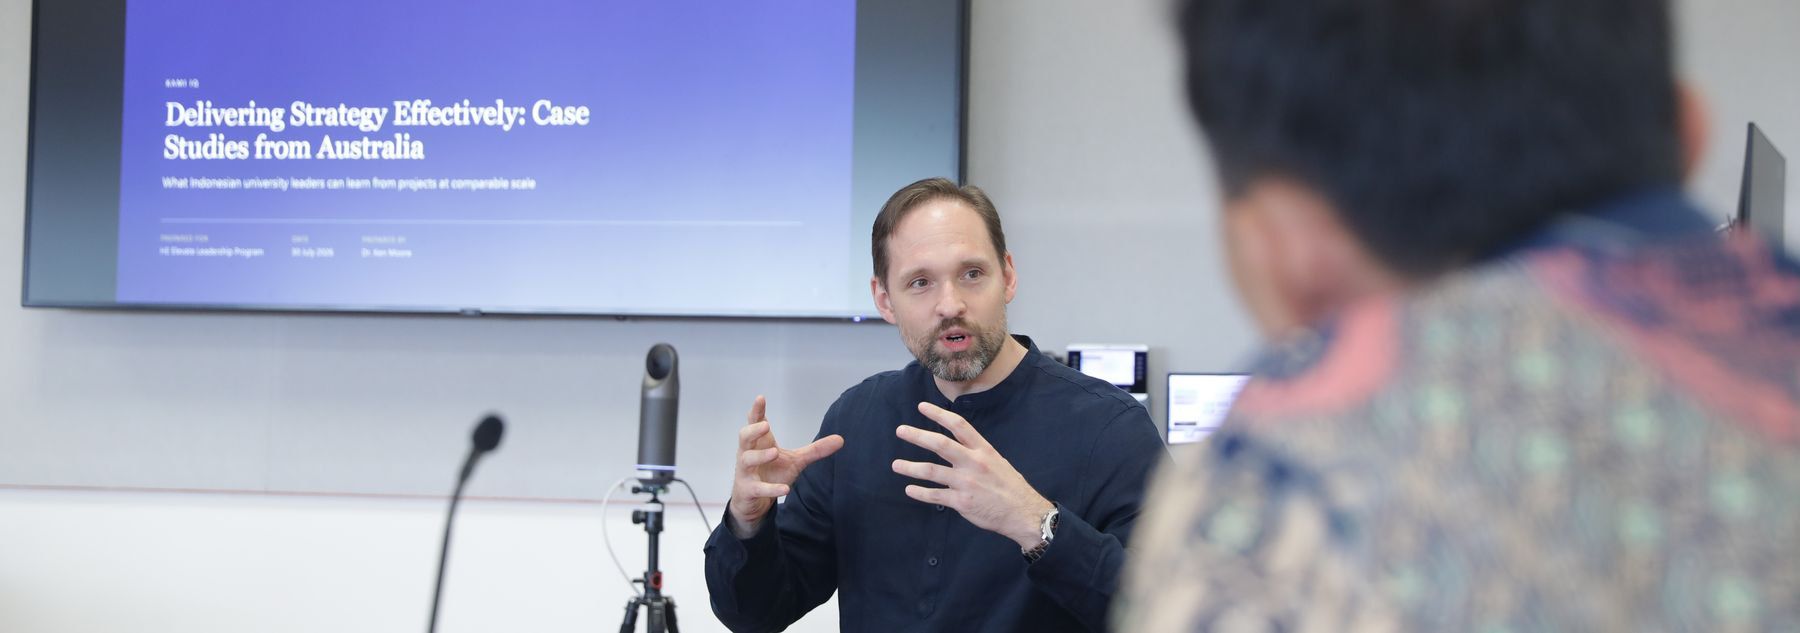
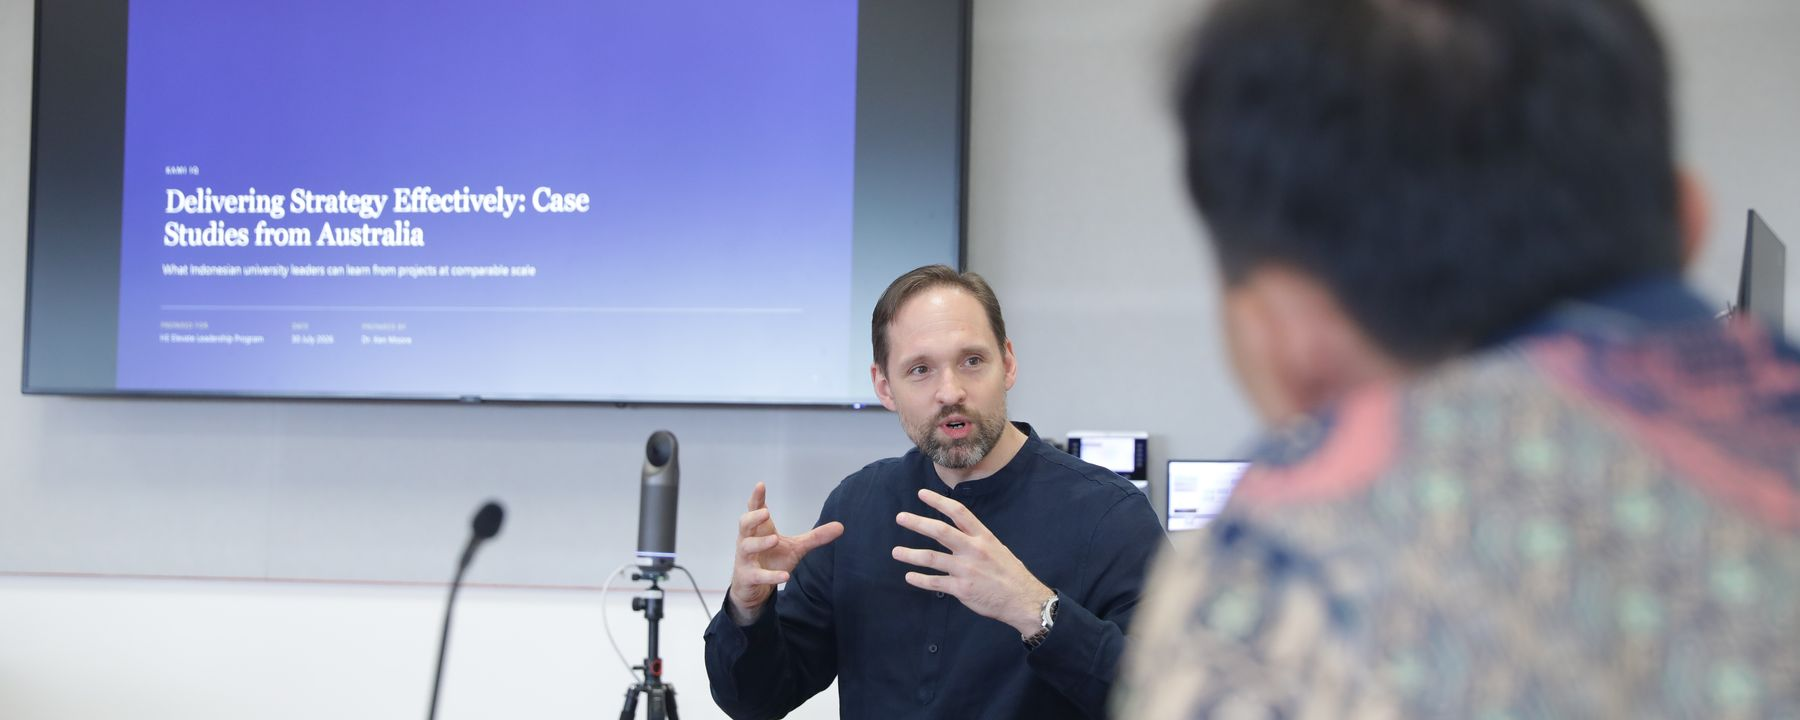
Taller photo crops (2.5:1) with more headroom under the fade

diff --git a/site/index.html b/site/index.html
@@ -34,7 +34,7 @@
     </section>
 
     <figure class="photo-band fade-cream">
-      <img src="assets/leadership-indonesia-2026-speaking.jpg?v=2" width="1800" height="633" loading="lazy"
+      <img src="assets/leadership-indonesia-2026-speaking.jpg?v=3" width="1800" height="720" loading="lazy"
            alt="Presenting case studies on delivering strategy to Indonesian university leaders">
       <figcaption>Presenting to Indonesian university leaders, 2026</figcaption>
     </figure>
@@ -73,7 +73,7 @@
     </section>
 
     <figure class="photo-band">
-      <img src="assets/redea-2026-group.jpg" width="1800" height="633" loading="lazy"
+      <img src="assets/redea-2026-group.jpg?v=3" width="1800" height="720" loading="lazy"
            alt="Group photo of workshop participants from EST Schools Indonesia, 2026">
       <figcaption>Workshop with EST Schools Indonesia, 2026</figcaption>
     </figure>
